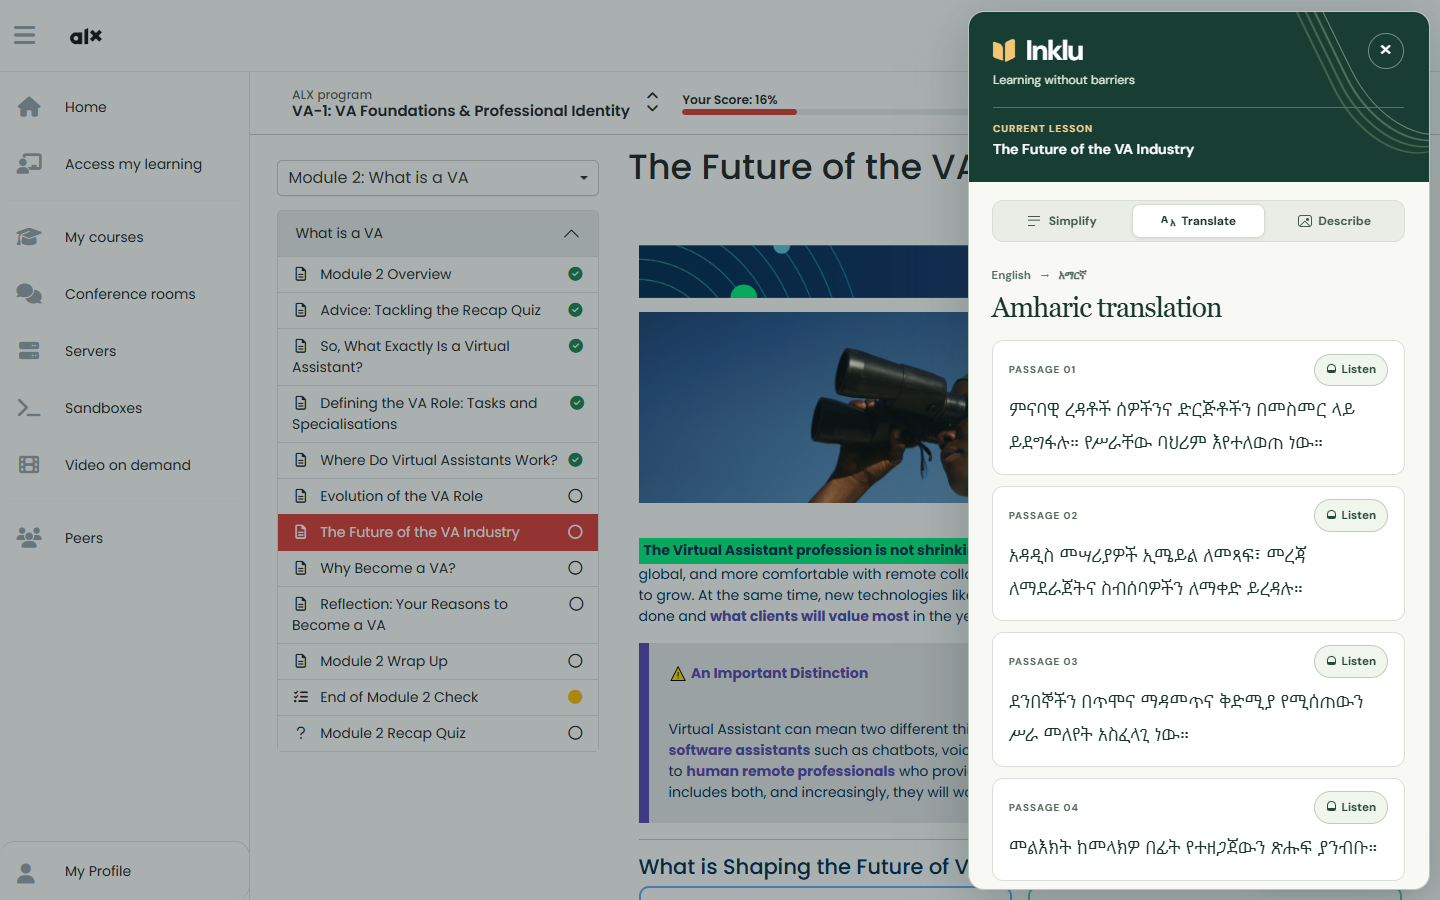
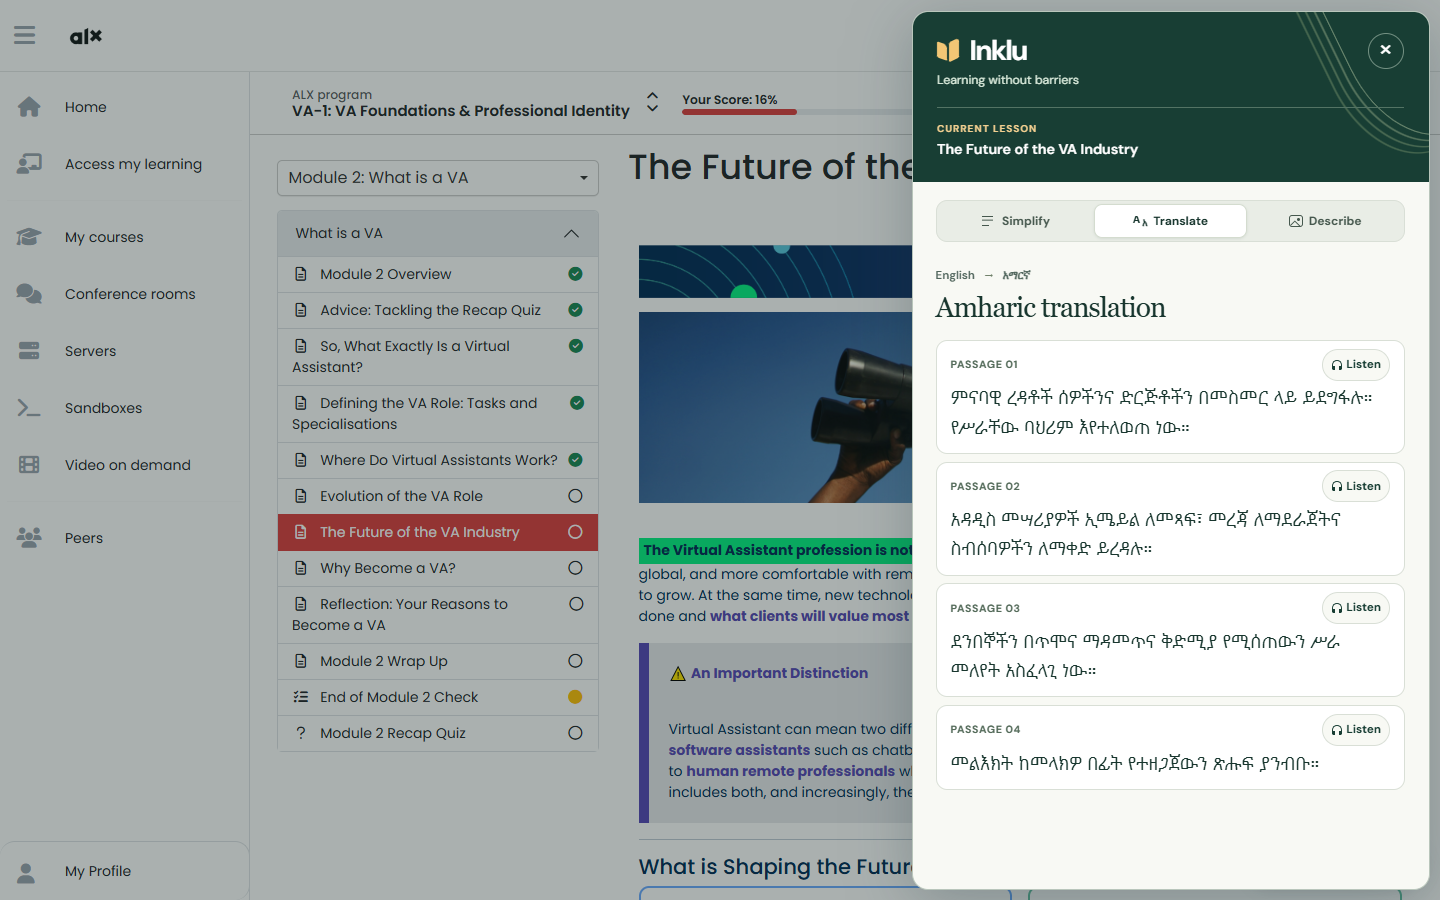
feat: enhance Amharic audio tools and improve UI responsiveness

diff --git a/assets/learning-companion/learning-companion.css b/assets/learning-companion/learning-companion.css
@@ -44,11 +44,12 @@ h2, h3, p, ol { margin: 0; }
 #toggle:hover, .primary:hover { background: #235343; }
 #panel {
   position: fixed; inset: .75rem .75rem .75rem auto; margin: 0;
-  width: min(33rem, calc(100vw - 1.5rem)); max-width: none;
+  width: min(37rem, calc(100vw - 1.5rem)); max-width: none;
   height: calc(100dvh - 1.5rem); max-height: none; padding: 0;
   border: 1px solid #b9c6bb; border-radius: 1.15rem;
   background: var(--paper); color: var(--ink);
   overflow: auto; overflow-wrap: anywhere; overscroll-behavior: contain;
+  scroll-padding-block: 1rem;
   box-shadow: 0 12px 60px #112b3540;
 }
 #panel::backdrop { background: rgb(17 33 31 / 36%); }
@@ -118,28 +119,53 @@ h3 { font: 500 2rem/1.18 Georgia, "Times New Roman", serif; letter-spacing: -.03
 .primary { margin-block-start: 1rem; }
 .primary span { margin-inline-start: .5rem; }
 #translation-status:not(:empty):not(.sr-only), #preview-status { color: var(--muted); font-size: .9rem; margin-block-start: .75rem; }
-#translation { padding: 0; list-style: none; display: grid; gap: .75rem; }
+#translation { padding: 0; list-style: none; display: grid; gap: .55rem; }
 .passage, .demo {
   min-width: 0; background: #fff; border: 1px solid var(--rule); border-radius: .8rem;
   padding: .9rem 1.15rem 1.15rem;
 }
-.passage { display: grid; grid-template-columns: minmax(0,1fr) auto; align-items: center; gap: .5rem; }
-.passage.active { border-color: #87a489; background: #fcfdf8; }
+.passage {
+  --card-inset: 1rem;
+  display: grid; grid-template-columns: minmax(0,1fr) auto; align-items: center;
+  gap: .2rem .65rem; padding: .55rem var(--card-inset) .8rem;
+}
+.passage.active { border-color: #87a489; }
 .passage-label, .demo .eyebrow { color: #536a59; }
-.passage > p { grid-column: 1 / -1; font: max(18px, 1.2rem)/1.8 "Noto Sans Ethiopic", Ebrima, Nyala, sans-serif; }
+.passage-label { font-size: .76rem; letter-spacing: .055em; font-variant-numeric: tabular-nums; }
+.passage > p {
+  grid-column: 1 / -1;
+  font: 400 max(18px, 1.2rem)/1.62 "Noto Sans Ethiopic", Ebrima, Nyala, sans-serif;
+}
 [data-passage], [data-action="stop"], [data-action="cancel"] {
   font-weight: 650; font-size: .83rem; border-radius: 2rem; min-height: 2.35rem;
   padding: .3rem .8rem; border: 1px solid #bdcdbd; background: #f0f5ed; color: #274933;
 }
-[data-passage] { grid-column: 2; grid-row: 1; }
+[data-passage] {
+  grid-column: 2; grid-row: 1; display: inline-flex; align-items: center; gap: .4em;
+  min-height: max(32px, 2rem); padding: .15rem .6rem; color: var(--spruce);
+  background: var(--paper); border-color: var(--rule);
+}
 [data-passage]::before {
-  content: ""; display: inline-block; width: .68rem; height: .68rem; margin-right: .38rem;
-  border: 1.5px solid currentColor; border-bottom: .28rem solid currentColor; border-radius: 55% 55% 30% 30%;
+  content: ""; flex: none; width: .85em; height: .85em;
+  border: .11em solid currentColor; border-bottom: 0; border-radius: 50% 50% 15% 15%;
+  background: linear-gradient(currentColor, currentColor) left bottom / .18em 45% no-repeat,
+    linear-gradient(currentColor, currentColor) right bottom / .18em 45% no-repeat;
 }
 [data-passage]:hover, [data-action="cancel"]:hover { background: #e3eddf; }
-.audio-tools { grid-column: 1 / -1; padding-top: .75rem; border-top: 1px solid var(--rule); color: var(--muted); font-size: .875rem; }
-#speech-status:not(:empty) { margin-block: .3rem; }
-.quote-actions { display: flex; flex-wrap: wrap; align-items: center; gap: .5rem; margin-top: .65rem; }
+.audio-tools {
+  grid-column: 1 / -1; display: flex; flex-wrap: wrap; align-items: center;
+  gap: .4rem .75rem; margin: .45rem calc(-1 * var(--card-inset)) -.8rem;
+  padding: .5rem var(--card-inset); border-top: 1px solid var(--rule);
+  border-radius: 0 0 .8rem .8rem; background: var(--paper); color: var(--muted);
+  font-size: .875rem; line-height: 1.4;
+}
+#speech-status { flex: 1 1 auto; min-width: 0; }
+#speech-status strong { color: var(--ink); white-space: nowrap; }
+.quote-voice { display: block; font-size: .82rem; }
+.quote-actions { display: flex; flex-wrap: wrap; align-items: center; gap: .35rem; }
+.quote-actions button { min-height: max(32px, 2.25rem); padding: .3rem .65rem; font-size: .85rem; }
+[data-action="confirm"]:hover { background: #235343; }
+[data-action="cancel"] { border-color: transparent; background: transparent; }
 .demo { padding: 1.25rem; margin-top: 1rem; border-inline-start: .23rem solid #c9a85e; }
 .demo p { margin-top: .65rem; line-height: 1.75; }
 details { border-top: 1px solid var(--rule); margin-top: 1.5rem; padding-top: .75rem; }
@@ -148,17 +174,20 @@ summary { font-weight: 600; }
 @media (max-width: 38rem) {
   #panel { inset: 0; width: 100%; height: 100dvh; border: 0; border-radius: 0; }
   header { padding: max(1.1rem, env(safe-area-inset-top)) 1.25rem 1.15rem; }
-  .workspace { padding: 1rem 1.15rem max(2rem, env(safe-area-inset-bottom)); }
+  .workspace { padding: .9rem 1.15rem max(1.5rem, env(safe-area-inset-bottom)); }
+  .lesson { margin-top: .85rem; padding-top: .65rem; }
+  [role="tabpanel"] { margin-top: 1.2rem; }
+  .language-pair + h3 { margin-bottom: .85rem; }
 }
 @media (max-width: 22rem) {
   .mode-icon { display: none; }
   .workspace, header { padding-inline: .85rem; }
-  .passage { padding-inline: .8rem; }
+  .passage { --card-inset: .8rem; }
 }
-@media (min-height: 38rem) {
+@media (width > 38rem) and (min-height: 38rem) {
   #panel[open] { display: flex; flex-direction: column; }
   header { flex-shrink: 0; max-height: 40%; overflow-y: auto; }
-  .workspace { overflow-y: auto; overscroll-behavior: contain; scrollbar-width: thin; }
+  .workspace { min-height: 0; overflow-y: auto; overscroll-behavior: contain; scroll-padding-block: 1rem; }
 }
 @media (forced-colors: active) {
   .mark::before, .mark::after { background: ButtonText; }

diff --git a/assets/learning-companion/amharic-audio.js b/assets/learning-companion/amharic-audio.js
@@ -22,7 +22,7 @@
       this.tools.innerHTML = `
           <button type="button" data-action="stop" aria-label="Stop Amharic audio" hidden>Stop</button>
           <p role="status" id="speech-status" aria-atomic="true"></p>
-          <div class="quote-actions" hidden>
+          <div class="quote-actions" role="group" hidden>
             <button type="button" data-action="confirm" aria-describedby="speech-status">Confirm generation</button>
             <button type="button" data-action="cancel">Cancel</button>
           </div>`;
@@ -36,6 +36,7 @@
         if (button !== this.listen) {
           this.deactivate();
           this.listen = button;
+          this.confirm.parentElement.setAttribute('aria-label', 'Audio confirmation for passage ' + button.dataset.passage);
           const card = button.closest('li');
           card.classList.add('active');
           card.append(this.tools);
@@ -179,7 +180,12 @@
           if (confirmed || typeof offer.quoteId !== 'string' || offer.currency !== 'ETB' ||
               !Number.isFinite(offer.estimatedCost) || offer.estimatedCost < 0 || offer.estimatedCost > 1) throw new Error();
           this.quote = offer.quoteId;
-          this.status.textContent = `Estimated cost: ${offer.estimatedCost} ETB · Voice: ${offer.voice}.`;
+          const cost = document.createElement('strong');
+          cost.textContent = offer.estimatedCost + ' ETB';
+          const voice = document.createElement('span');
+          voice.className = 'quote-voice';
+          voice.textContent = 'Voice: ' + offer.voice;
+          this.status.replaceChildren('Estimated cost: ', cost, ' ', voice);
           this.confirm.parentElement.hidden = false;
         }
       } catch {
